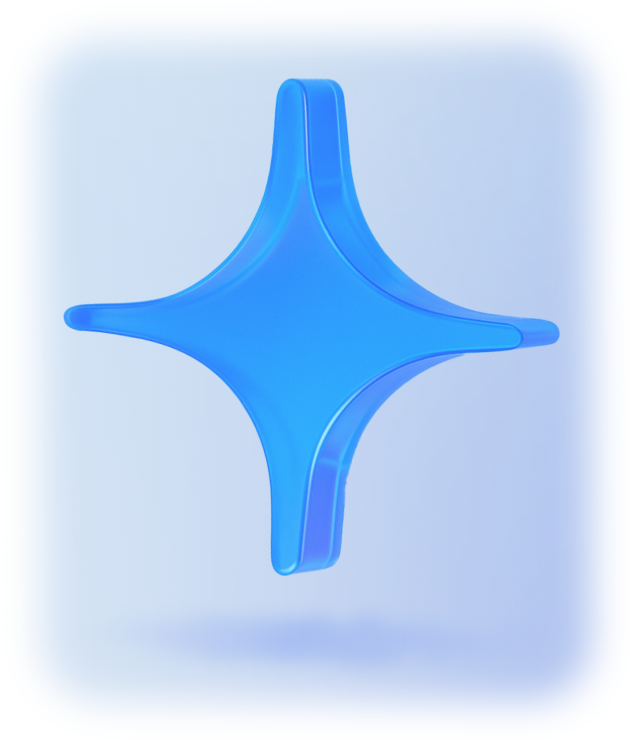
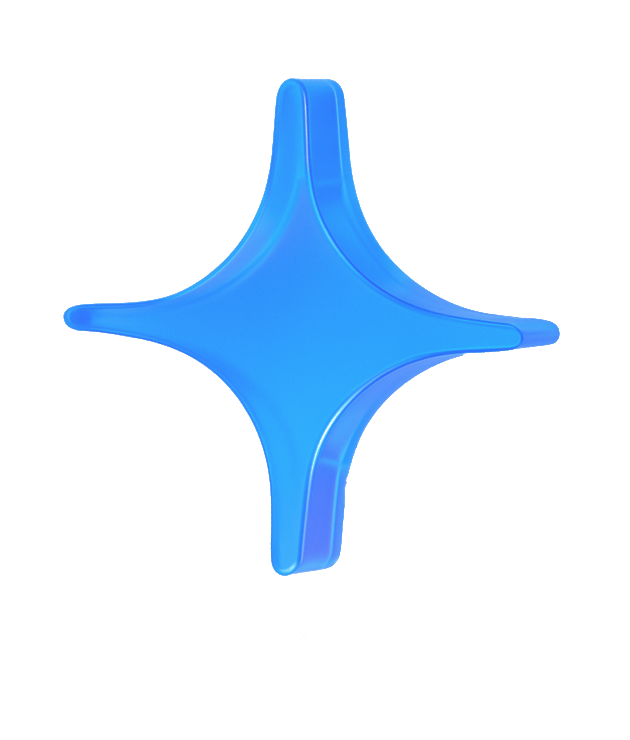
Naski: illustrazioni animate nell'onboarding
La matita oscilla come se scrivesse, la campana suona con un rintocco
smorzato, la stella fluttua e ruota piano tra scintille intermittenti.
Le ombre a terra sono disegnate a parte e si stringono quando l'oggetto
sale. Scorrendo tra le pagine l'illustrazione rimpicciolisce e sfuma con
un effetto profondità. La stella è ora ritagliata dallo sfondo.

Claude-Session: https://claude.ai/code/session_015qaMNn1Fg6hvZG9HVDsZSV

diff --git a/naski/src/components/OnboardingArt.tsx b/naski/src/components/OnboardingArt.tsx
@@ -1,0 +1,194 @@
+import { Image, ImageSource } from 'expo-image';
+import { useEffect } from 'react';
+import { Animated, Easing, Platform, StyleSheet, View, ViewStyle } from 'react-native';
+import Svg, { Defs, Ellipse, Path, RadialGradient, Stop } from 'react-native-svg';
+
+import { useAnimatedNumber } from '../hooks/useAnimatedNumber';
+import { useReducedMotion } from '../hooks/useReducedMotion';
+
+export type ArtKind = 'pencil' | 'bell' | 'star';
+type Frame = { x: number; y: number; w: number; h: number };
+
+type Props = {
+  kind: ArtKind;
+  image: ImageSource;
+  frame: Frame;
+  fit: 'cover' | 'fill';
+  // Ombra a terra disegnata a parte (centro e larghezza), così l'oggetto può staccarsi da essa.
+  shadow?: { cx: number; cy: number; w: number };
+  // Posizione di partenza in orizzontale e in verticale della pagina.
+  left: number;
+  top: number;
+};
+
+type Transform = Extract<NonNullable<Animated.WithAnimatedValue<ViewStyle>['transform']>, readonly unknown[]>[number];
+
+const ease = Easing.inOut(Easing.sin);
+const wave = (v: Animated.Value, duration: number) =>
+  Animated.loop(
+    Animated.sequence([
+      Animated.timing(v, { toValue: 1, duration, easing: ease, useNativeDriver: true }),
+      Animated.timing(v, { toValue: 0, duration, easing: ease, useNativeDriver: true }),
+    ]),
+  );
+
+// Le illustrazioni 3D dell'onboarding, ognuna con il suo movimento:
+// la matita oscilla come se scrivesse, la campana suona, la stella fluttua tra le scintille.
+export function OnboardingArt({ kind, image, frame, fit, shadow, left, top }: Props) {
+  const reduced = useReducedMotion();
+  const float = useAnimatedNumber(0);
+  const tilt = useAnimatedNumber(0);
+  const ring = useAnimatedNumber(0);
+  const twinkle = useAnimatedNumber(0);
+
+  useEffect(() => {
+    if (reduced) return;
+    const loops: Animated.CompositeAnimation[] = [wave(float, kind === 'star' ? 2600 : 2200)];
+    if (kind === 'pencil') loops.push(wave(tilt, 900));
+    if (kind === 'star') loops.push(wave(tilt, 4200));
+    if (kind === 'bell') {
+      // Rintocco smorzato ogni tre secondi circa.
+      const step = (to: number, duration: number) =>
+        Animated.timing(ring, { toValue: to, duration, easing: Easing.inOut(Easing.quad), useNativeDriver: true });
+      loops.push(
+        Animated.loop(
+          Animated.sequence([
+            Animated.delay(1400),
+            step(1, 150),
+            step(-0.8, 260),
+            step(0.55, 240),
+            step(-0.3, 220),
+            step(0.12, 200),
+            step(0, 180),
+          ]),
+        ),
+      );
+    }
+    if (kind === 'star') {
+      loops.push(
+        Animated.loop(
+          Animated.timing(twinkle, { toValue: 1, duration: 2400, easing: Easing.linear, useNativeDriver: true }),
+        ),
+      );
+    }
+    loops.forEach((l) => l.start());
+    return () => loops.forEach((l) => l.stop());
+  }, [reduced, kind, float, tilt, ring, twinkle]);
+
+  const lift = kind === 'star' ? 12 : kind === 'bell' ? 5 : 7;
+  const translateY = float.interpolate({ inputRange: [0, 1], outputRange: [0, -lift] });
+
+  const transform: Transform[] = [{ translateY }];
+  if (kind === 'pencil') {
+    transform.push({ rotate: tilt.interpolate({ inputRange: [0, 1], outputRange: ['-3deg', '3deg'] }) });
+  }
+  if (kind === 'bell') {
+    // Ruota attorno all'anello in alto: sposto il perno, ruoto, lo rimetto.
+    transform.push(
+      { translateY: -frame.h / 2 },
+      { rotate: ring.interpolate({ inputRange: [-1, 1], outputRange: ['-14deg', '14deg'] }) },
+      { translateY: frame.h / 2 },
+    );
+  }
+  if (kind === 'star') {
+    transform.push(
+      { rotate: tilt.interpolate({ inputRange: [0, 1], outputRange: ['-5deg', '5deg'] }) },
+      { scale: float.interpolate({ inputRange: [0, 1], outputRange: [1, 1.04] }) },
+    );
+  }
+
+  return (
+    <View pointerEvents="none" style={StyleSheet.absoluteFill}>
+      {shadow && (
+        <Animated.View
+          style={{
+            position: 'absolute',
+            left: left + shadow.cx - shadow.w / 2,
+            top: top + shadow.cy - shadow.w / 8,
+            opacity: float.interpolate({ inputRange: [0, 1], outputRange: [1, 0.6] }),
+            transform: [{ scale: float.interpolate({ inputRange: [0, 1], outputRange: [1, 0.82] }) }],
+          }}
+        >
+          <Svg width={shadow.w} height={shadow.w / 4}>
+            <Defs>
+              <RadialGradient id={`sh-${kind}`} cx="50%" cy="50%" rx="50%" ry="50%">
+                <Stop offset="0" stopColor="#3b5fd6" stopOpacity={0.32} />
+                <Stop offset="1" stopColor="#3b5fd6" stopOpacity={0} />
+              </RadialGradient>
+            </Defs>
+            <Ellipse
+              cx={shadow.w / 2}
+              cy={shadow.w / 8}
+              rx={shadow.w / 2}
+              ry={shadow.w / 8}
+              fill={`url(#sh-${kind})`}
+            />
+          </Svg>
+        </Animated.View>
+      )}
+
+      <Animated.View
+        style={{
+          position: 'absolute',
+          left: left + frame.x,
+          top: top + frame.y,
+          width: frame.w,
+          height: frame.h,
+          transform,
+        }}
+      >
+        <Image source={image} contentFit={fit} style={StyleSheet.absoluteFill} />
+      </Animated.View>
+
+      {kind === 'star' &&
+        SPARKLES.map((s, i) => {
+          const phase = i / SPARKLES.length;
+          const t = Animated.modulo(Animated.add(twinkle, phase), 1);
+          return (
+            <Animated.View
+              key={i}
+              style={{
+                position: 'absolute',
+                left: left + s.x - s.size / 2,
+                top: top + s.y - s.size / 2,
+                opacity: reduced ? 0.8 : t.interpolate({ inputRange: [0, 0.25, 0.5, 1], outputRange: [0, 1, 0, 0] }),
+                transform: reduced
+                  ? []
+                  : [
+                      { scale: t.interpolate({ inputRange: [0, 0.25, 0.5, 1], outputRange: [0.3, 1, 0.3, 0.3] }) },
+                      { rotate: t.interpolate({ inputRange: [0, 1], outputRange: ['0deg', '90deg'] }) },
+                    ],
+              }}
+            >
+              <View style={Platform.OS === 'ios' ? styles.sparkleGlow : null}>
+                <Sparkle size={s.size} />
+              </View>
+            </Animated.View>
+          );
+        })}
+    </View>
+  );
+}
+
+// Scintille attorno alla stella (coordinate della schermata 375×812).
+const SPARKLES = [
+  { x: 88, y: 178, size: 22 },
+  { x: 304, y: 210, size: 16 },
+  { x: 290, y: 396, size: 24 },
+  { x: 74, y: 356, size: 15 },
+];
+
+function Sparkle({ size }: { size: number }) {
+  return (
+    <Svg width={size} height={size} viewBox="0 0 24 24">
+      <Path d="M12 0C13 7 17 11 24 12C17 13 13 17 12 24C11 17 7 13 0 12C7 11 11 7 12 0Z" fill="#ffffff" />
+      <Path d="M12 6C12.5 9.5 14.5 11.5 18 12C14.5 12.5 12.5 14.5 12 18C11.5 14.5 9.5 12.5 6 12C9.5 11.5 11.5 9.5 12 6Z" fill="#7fb2ff" />
+    </Svg>
+  );
+}
+
+const styles = StyleSheet.create({
+  // Alone azzurro, perché le scintille bianche si leggano anche sullo sfondo chiaro.
+  // Solo su iPhone: altrove l'ombra segue il riquadro e non la forma della scintilla.
+  sparkleGlow: { shadowColor: '#2d5cf2', shadowOpacity: 0.55, shadowRadius: 6, shadowOffset: { width: 0, height: 0 } },
+});

diff --git a/naski/src/app/index.tsx b/naski/src/app/index.tsx
@@ -1,4 +1,3 @@
-import { Image } from 'expo-image';
 import { LinearGradient } from 'expo-linear-gradient';
 import { router } from 'expo-router';
 import { useEffect, useRef, useState } from 'react';
@@ -17,6 +16,7 @@ import {
 
 import { Button } from '../components/Button';
 import { Icon } from '../components/Icon';
+import { ArtKind, OnboardingArt } from '../components/OnboardingArt';
 import { Screen, useDesignBottom, useDesignTop } from '../components/Screen';
 import { useAnimatedNumber } from '../hooks/useAnimatedNumber';
 import { logoMark, logoTagline, logoWordmark } from '../theme/icons';
@@ -27,27 +27,30 @@ const PAGES = [
   {
     title: 'Scrivi un Post-it o un diario',
     body: 'Esprimi la tua gratitudine come preferisci:\nscrivi un post-it breve e spontaneo oppure un diario più profondo e riflessivo.',
+    kind: 'pencil' as ArtKind,
     image: require('../../assets/images/pencil.png'),
     frame: { x: 76, y: 138, w: 223, h: 307 },
     fit: 'cover' as const,
-    opacity: 1,
+    shadow: undefined,
   },
   {
     title: 'Imposta il tuo promemoria giornaliero e futuro',
     body: 'Attiva il tuo Daily Ring: un promemoria gentile per non dimenticare di scrivere ogni giorno ciò per cui sei grato.',
+    kind: 'bell' as ArtKind,
     image: require('../../assets/images/bell.png'),
     frame: { x: 86, y: 164, w: 203, h: 250 },
     fit: 'cover' as const,
-    opacity: 1,
+    shadow: { cx: 187, cy: 438, w: 150 },
   },
   {
     title: 'Tracker AI',
     body: 'Scopri il tuo percorso con il Tracker AI: analizza i tuoi pensieri e osserva come cresce la tua gratitudine nel tempo.',
-    // Ritaglio dal render di Figma (la stella è ruotata e ha l'ombra sotto).
+    // Ritaglio dal render di Figma (la stella è ruotata), separato dallo sfondo; l'ombra è disegnata a parte.
+    kind: 'star' as ArtKind,
     image: require('../../assets/images/star.png'),
     frame: { x: 30, y: 125, w: 315, h: 370 },
     fit: 'fill' as const,
-    opacity: 1,
+    shadow: { cx: 180, cy: 444, w: 190 },
   },
 ];
 
@@ -71,6 +74,8 @@ export default function Onboarding() {
   const words = useAnimatedNumber(1);
   const zoom = useAnimatedNumber(0);
   const content = useAnimatedNumber(0);
+  // Posizione dello scorrimento orizzontale, per l'effetto profondità tra le pagine.
+  const scrollX = useAnimatedNumber(0);
 
   useEffect(() => {
     const anim = Animated.sequence([
@@ -81,7 +86,12 @@ export default function Onboarding() {
         Animated.timing(zoom, { toValue: 1, duration: 900, easing: Easing.in(Easing.cubic), useNativeDriver: true }),
         Animated.sequence([
           Animated.delay(550),
-          Animated.timing(content, { toValue: 1, duration: 450, easing: Easing.out(Easing.quad), useNativeDriver: true }),
+          Animated.timing(content, {
+            toValue: 1,
+            duration: 450,
+            easing: Easing.out(Easing.quad),
+            useNativeDriver: true,
+          }),
         ]),
       ]),
     ]);
@@ -100,35 +110,63 @@ export default function Onboarding() {
 
   return (
     <Screen onWidth={setMeasured}>
-      <Animated.View style={[StyleSheet.absoluteFill, { opacity: content }]} pointerEvents={splashDone ? 'auto' : 'none'}>
+      <Animated.View
+        style={[StyleSheet.absoluteFill, { opacity: content }]}
+        pointerEvents={splashDone ? 'auto' : 'none'}
+      >
         <ScrollView
           ref={scroller}
           horizontal
           pagingEnabled
+          contentContainerStyle={styles.pages}
           showsHorizontalScrollIndicator={false}
           onMomentumScrollEnd={onScrollEnd}
+          // Animato in JS: con il driver nativo scrollTo non risponde sul web.
+          onScroll={Animated.event([{ nativeEvent: { contentOffset: { x: scrollX } } }], { useNativeDriver: false })}
           scrollEventThrottle={16}
         >
-          {PAGES.map((p, i) => (
-            <Pressable key={p.title} style={{ width }} onPress={() => i < PAGES.length - 1 && goTo(i + 1)}>
-              <Image
-                source={p.image}
-                contentFit={p.fit}
-                style={{
-                  position: 'absolute',
-                  left: offsetX + p.frame.x,
-                  top: top + p.frame.y,
-                  width: p.frame.w,
-                  height: p.frame.h,
-                  opacity: p.opacity,
-                }}
-              />
-              <View style={[styles.copy, { top: top + 499 }]}>
-                <Text style={styles.title}>{p.title}</Text>
-                <Text style={styles.body}>{p.body}</Text>
+          {PAGES.map((p, i) => {
+            // Mentre la pagina esce, l'illustrazione scorre più lenta del testo, rimpicciolisce e sfuma.
+            const range = [(i - 1) * width, i * width, (i + 1) * width];
+            const depth = {
+              opacity: scrollX.interpolate({ inputRange: range, outputRange: [0, 1, 0], extrapolate: 'clamp' }),
+              transform: [
+                {
+                  translateX: scrollX.interpolate({
+                    inputRange: range,
+                    outputRange: [-width * 0.45, 0, width * 0.45],
+                    extrapolate: 'clamp',
+                  }),
+                },
+                { scale: scrollX.interpolate({ inputRange: range, outputRange: [0.8, 1, 0.8], extrapolate: 'clamp' }) },
+              ],
+            };
+            return (
+              <View key={p.title} style={{ width, height: '100%' }}>
+                <Animated.View pointerEvents="none" style={[StyleSheet.absoluteFill, depth]}>
+                  <OnboardingArt
+                    kind={p.kind}
+                    image={p.image}
+                    frame={p.frame}
+                    fit={p.fit}
+                    shadow={p.shadow}
+                    left={offsetX}
+                    top={top}
+                  />
+                </Animated.View>
+                <View style={[styles.copy, { top: top + 499 }]}>
+                  <Text style={styles.title}>{p.title}</Text>
+                  <Text style={styles.body}>{p.body}</Text>
+                </View>
+                {/* Area toccabile sopra all'illustrazione: tap per andare alla pagina successiva. */}
+                <Pressable
+                  style={StyleSheet.absoluteFill}
+                  onPress={() => i < PAGES.length - 1 && goTo(i + 1)}
+                  accessibilityLabel="Pagina successiva"
+                />
               </View>
-            </Pressable>
-          ))}
+            );
+          })}
         </ScrollView>
 
         <View style={[styles.stepper, { top: top + 68 }]} pointerEvents="none">
@@ -179,6 +217,7 @@ export default function Onboarding() {
 }
 
 const styles = StyleSheet.create({
+  pages: { height: '100%' },
   copy: { position: 'absolute', left: 24, right: 24, gap: 12 },
   title: { fontFamily: fonts.heavy, fontSize: 18, lineHeight: 24, color: colors.navy, textAlign: 'center' },
   body: { fontFamily: fonts.regular, fontSize: 14, lineHeight: 22, color: colors.navy, textAlign: 'center' },
